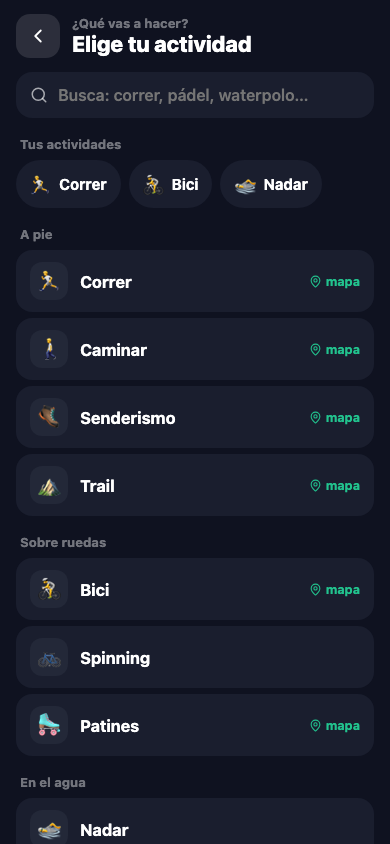
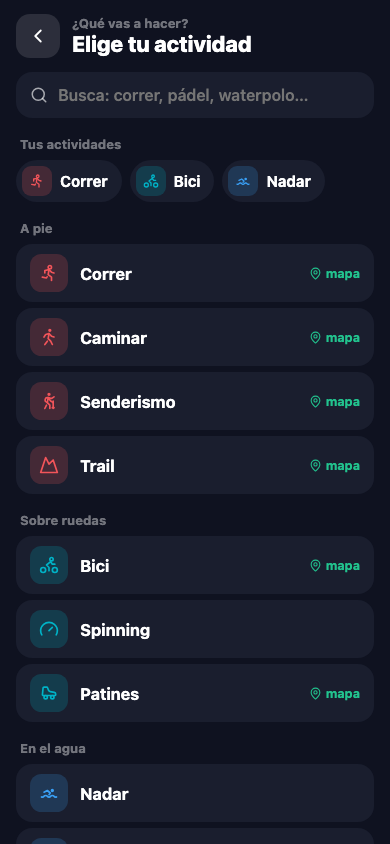
Actividades sin emojis: iconos de linea en cuadrito de color (catalogo de la app); crear la tuya con color e icono sugerido por el nombre

diff --git a/src/features/libre/ElegirActividad.jsx b/src/features/libre/ElegirActividad.jsx
@@ -1,33 +1,38 @@
 import { useMemo, useState } from 'react';
 import { createPortal } from 'react-dom';
-import { ChevronLeft, MapPin, Plus, Search } from 'lucide-react';
+import { Check, ChevronLeft, Loader2, MapPin, Plus, Search } from 'lucide-react';
 import { FONT } from '@/lib/theme';
 import {
-  EMOJIS_PARA_CREAR, GRUPOS_DE_ACTIVIDADES, MAX_NOMBRE, buscaActividades, creaActividad, hayConNombre, tusActividades,
+  COLORES_PARA_CREAR, GRUPOS_DE_ACTIVIDADES, ICONO_PROPIO, MAX_NOMBRE, buscaActividades, creaActividad, hayConNombre, tusActividades,
 } from '@/lib/actividades';
+import { buscaIconos, sugiereIcono } from '@/lib/iconosDeTipo';
+import { useCatalogoDeIconos } from '@/lib/useCatalogoDeIconos';
+import { IconoSvg } from '@/components/IconoDeTipo';
+import IconoDeActividad from './IconoDeActividad';
 
 /* ELIGE TU ACTIVIDAD (23 oct 2026, Activity Tracker; maqueta v4 aprobada: `docs/maquetas/2026-10-21-experiencia-tracker.html`, pantallas «Cambiar actividad» y «Crear la tuya»).
    Se abre desde el botón de la izquierda de «listo para empezar» (el punto ● de la barra). Oscura, como esa pantalla.
      · Arriba «Tus actividades»: lo que hizo últimamente y las que creó (un toque si repite lo de siempre).
      · Abajo todas, por grupos; las que llevan mapa dicen «mapa».
      · Buscador sin acentos. Si lo que escribe no existe: «Crear "Waterpolo"».
-     · Crear la suya: nombre, emoji y UNA pregunta, «¿Te mueves de un lugar a otro?» (si sí, lleva mapa y distancia). Queda guardada en su configuración.
+     · Crear la suya: nombre, COLOR e ÍCONO (del catálogo de la app, el de los tipos de sesión; mientras escribe el nombre se le sugiere uno) y UNA pregunta,
+       «¿Te mueves de un lugar a otro?» (si sí, lleva mapa y distancia). Queda guardada en su configuración. Sin emojis: Andrés, «no tienen personalidad».
    `filas`: sus entrenos recientes (para «Tus actividades»). `propias`: las que creó. `alElegir(actividad)`. `alCrear(actividad)`: la guarda y la elige. */
 
 const C = { fondo: '#0F1220', tarjeta: '#1A1E2E', tarjeta2: '#232838', texto: '#FFFFFF', texto2: 'rgba(255,255,255,0.62)', texto3: 'rgba(255,255,255,0.42)', azul: '#2F6BFF', verde: '#22C38E' };
 
 const rotulo = { margin: '18px 4px 8px', fontSize: 13, fontWeight: 700, color: C.texto3 };
 const fila = {
-  width: '100%', display: 'flex', alignItems: 'center', gap: 12, padding: '12px 14px', border: 'none', borderRadius: 16, background: C.tarjeta, color: C.texto,
+  width: '100%', display: 'flex', alignItems: 'center', gap: 12, padding: '10px 14px', border: 'none', borderRadius: 16, background: C.tarjeta, color: C.texto,
   fontFamily: FONT, fontSize: 16.5, fontWeight: 700, cursor: 'pointer', textAlign: 'left', touchAction: 'manipulation',
 };
-const emojiDe = { width: 38, height: 38, borderRadius: 12, background: C.tarjeta2, display: 'grid', placeItems: 'center', fontSize: 21, flexShrink: 0 };
 const redondo = { width: 44, height: 44, borderRadius: 14, border: 'none', background: 'rgba(255,255,255,0.12)', color: '#fff', display: 'grid', placeItems: 'center', cursor: 'pointer', flexShrink: 0 };
+const masDe = { width: 38, height: 38, borderRadius: 12, background: 'rgba(47,107,255,0.2)', color: C.azul, display: 'grid', placeItems: 'center', flexShrink: 0 };
 
 function Fila({ actividad, onClick }) {
   return (
     <button type="button" onClick={onClick} style={fila}>
-      <span aria-hidden="true" style={emojiDe}>{actividad.emoji}</span>
+      <IconoDeActividad actividad={actividad} oscuro />
       <span style={{ flex: 1, minWidth: 0, overflowWrap: 'anywhere' }}>{actividad.nombre}</span>
       {actividad.gps && <span style={{ display: 'inline-flex', alignItems: 'center', gap: 4, fontSize: 12.5, fontWeight: 700, color: C.verde }}><MapPin size={13} /> mapa</span>}
     </button>
@@ -35,12 +40,24 @@ function Fila({ actividad, onClick }) {
 }
 
 function Crear({ inicial, propias, alGuardar, alVolver }) {
+  const catalogo = useCatalogoDeIconos();
   const [nombre, setNombre] = useState(inicial);
-  const [emoji, setEmoji] = useState(EMOJIS_PARA_CREAR[0]);
+  const [color, setColor] = useState(COLORES_PARA_CREAR[0]);
+  const [elegido, setElegido] = useState(null); // el ícono que tocó; sin tocar ninguno, el que sugiere el nombre
+  const [busca, setBusca] = useState('');
   const [gps, setGps] = useState(false);
   const [aviso, setAviso] = useState(null);
+  const sugerido = useMemo(() => (catalogo ? sugiereIcono(catalogo, nombre) : null), [catalogo, nombre]);
+  const icono = elegido ?? sugerido ?? ICONO_PROPIO;
+  // El que va (el sugerido por el nombre o el que tocó) sale primero en la rejilla: así se ve marcado sin tener que buscarlo.
+  const iconos = useMemo(() => {
+    const todos = buscaIconos(catalogo, busca);
+    if (busca.trim()) return todos;
+    const actual = todos.find((ic) => ic.id === icono);
+    return actual ? [actual, ...todos.filter((ic) => ic !== actual)] : todos;
+  }, [catalogo, busca, icono]);
   const guardar = () => {
-    const r = creaActividad({ nombre, emoji, gps }, propias);
+    const r = creaActividad({ nombre, icono, color, gps }, propias);
     if (!r) { setAviso('Escribe cómo se llama.'); return; }
     alGuardar(r.actividad, r.yaExistia);
   };
@@ -51,23 +68,50 @@ function Crear({ inicial, propias, alGuardar, alVolver }) {
         <div><div style={{ fontSize: 13, fontWeight: 700, color: C.texto3 }}>Nueva actividad</div><div style={{ fontSize: 22, fontWeight: 800 }}>Hazla tuya</div></div>
       </div>
       <div style={{ flex: 1, overflowY: 'auto', padding: '14px 16px' }}>
-        <div aria-hidden="true" style={{ width: 96, height: 96, borderRadius: 30, background: C.tarjeta, display: 'grid', placeItems: 'center', fontSize: 52, margin: '6px auto 16px' }}>{emoji}</div>
+        <div style={{ display: 'flex', justifyContent: 'center', margin: '4px 0 16px' }}>
+          <IconoDeActividad actividad={{ icono, color, nombre }} size={92} oscuro />
+        </div>
         <input
           value={nombre} onChange={(e) => { setNombre(e.target.value); setAviso(null); }} maxLength={MAX_NOMBRE} placeholder="Nombre" aria-label="Nombre de la actividad" autoFocus={!inicial}
           style={{ width: '100%', boxSizing: 'border-box', border: 'none', borderRadius: 16, background: C.tarjeta, color: C.texto, fontFamily: FONT, fontSize: 20, fontWeight: 700, padding: '14px 16px', outline: 'none', textAlign: 'center' }}
         />
         {aviso && <div role="alert" style={{ marginTop: 8, textAlign: 'center', color: '#FFB547', fontSize: 14, fontWeight: 600 }}>{aviso}</div>}
-        <div role="group" aria-label="Emoji" style={{ display: 'grid', gridTemplateColumns: 'repeat(5, 1fr)', gap: 8, marginTop: 16 }}>
-          {EMOJIS_PARA_CREAR.map((e) => (
+
+        <div style={rotulo}>Color</div>
+        <div role="group" aria-label="Color" style={{ display: 'flex', flexWrap: 'wrap', gap: 10 }}>
+          {COLORES_PARA_CREAR.map((c) => (
             <button
-              key={e} type="button" onClick={() => setEmoji(e)} aria-pressed={e === emoji} aria-label={`Emoji ${e}`}
-              style={{ height: 52, borderRadius: 14, border: 'none', cursor: 'pointer', fontSize: 26, background: e === emoji ? C.azul : C.tarjeta, touchAction: 'manipulation' }}
-            >{e}</button>
+              key={c} type="button" onClick={() => setColor(c)} aria-pressed={c === color} aria-label={`Color ${c}`}
+              style={{ width: 38, height: 38, borderRadius: 19, border: 'none', cursor: 'pointer', background: c, display: 'grid', placeItems: 'center', boxShadow: c === color ? '0 0 0 3px #0F1220, 0 0 0 5px #fff' : 'none', touchAction: 'manipulation' }}
+            >{c === color && <Check size={16} color="#fff" strokeWidth={3.4} />}</button>
           ))}
         </div>
+
+        <div style={rotulo}>Ícono</div>
+        <label style={{ display: 'flex', alignItems: 'center', gap: 10, padding: '0 14px', borderRadius: 14, background: C.tarjeta }}>
+          <Search size={17} color={C.texto2} aria-hidden="true" />
+          <input
+            type="search" value={busca} onChange={(e) => setBusca(e.target.value)} placeholder="Busca: pelota, agua, montaña…" aria-label="Buscar ícono" autoComplete="off"
+            style={{ flex: 1, minWidth: 0, border: 'none', background: 'transparent', color: C.texto, fontFamily: FONT, fontSize: 15.5, fontWeight: 600, padding: '12px 0', outline: 'none' }}
+          />
+        </label>
+        <div role="group" aria-label="Ícono" style={{ display: 'grid', gridTemplateColumns: 'repeat(auto-fill, minmax(52px, 1fr))', gap: 8, marginTop: 10, maxHeight: 236, overflowY: 'auto' }}>
+          {!catalogo && <div style={{ gridColumn: '1 / -1', display: 'flex', alignItems: 'center', gap: 8, color: C.texto2, fontSize: 14, padding: 12 }}><Loader2 size={16} className="spin" /> Cargando íconos…</div>}
+          {catalogo && iconos.length === 0 && <div style={{ gridColumn: '1 / -1', color: C.texto2, fontSize: 14, padding: 12 }}>Ningún ícono con esa palabra.</div>}
+          {iconos.map((ic) => {
+            const puesto = ic.id === icono;
+            return (
+              <button
+                key={ic.id} type="button" onClick={() => setElegido(ic.id)} aria-pressed={puesto} aria-label={ic.nombre} title={ic.nombre}
+                style={{ height: 52, borderRadius: 14, border: 'none', cursor: 'pointer', display: 'grid', placeItems: 'center', background: puesto ? `${color}33` : C.tarjeta, color: puesto ? color : C.texto, touchAction: 'manipulation' }}
+              ><IconoSvg svg={ic.svg} size={24} /></button>
+            );
+          })}
+        </div>
+
         <button
           type="button" onClick={() => setGps((g) => !g)} aria-pressed={gps}
-          style={{ ...fila, marginTop: 16, alignItems: 'center', justifyContent: 'space-between', padding: '14px 16px' }}
+          style={{ ...fila, marginTop: 16, justifyContent: 'space-between', padding: '14px 16px' }}
         >
           <span><span style={{ display: 'block' }}>¿Te mueves de un lugar a otro?</span><span style={{ display: 'block', fontSize: 13.5, fontWeight: 500, color: C.texto2, marginTop: 2 }}>Si sí, llevará mapa y distancia.</span></span>
           <span aria-hidden="true" style={{ width: 50, height: 30, borderRadius: 15, background: gps ? C.verde : 'rgba(255,255,255,0.18)', position: 'relative', flexShrink: 0, transition: 'background .15s' }}>
@@ -118,8 +162,8 @@ export default function ElegirActividad({ filas = [], propias = [], alElegir, al
                   {tuyas.map((x) => (
                     <button
                       key={x.id} type="button" onClick={() => alElegir(x)}
-                      style={{ display: 'inline-flex', alignItems: 'center', gap: 8, padding: '10px 14px', borderRadius: 99, border: 'none', background: x.propia ? 'rgba(47,107,255,0.24)' : C.tarjeta, color: C.texto, fontFamily: FONT, fontSize: 15, fontWeight: 700, cursor: 'pointer', touchAction: 'manipulation' }}
-                    ><span aria-hidden="true" style={{ fontSize: 18 }}>{x.emoji}</span>{x.nombre}</button>
+                      style={{ display: 'inline-flex', alignItems: 'center', gap: 8, padding: '6px 14px 6px 6px', borderRadius: 99, border: 'none', background: C.tarjeta, color: C.texto, fontFamily: FONT, fontSize: 15, fontWeight: 700, cursor: 'pointer', touchAction: 'manipulation' }}
+                    ><IconoDeActividad actividad={x} size={30} oscuro />{x.nombre}</button>
                   ))}
                 </div>
                 {GRUPOS_DE_ACTIVIDADES.map((g) => (
@@ -129,16 +173,16 @@ export default function ElegirActividad({ filas = [], propias = [], alElegir, al
                   </div>
                 ))}
                 <div style={rotulo}>¿No está?</div>
-                <button type="button" onClick={() => setCreando('')} style={{ ...fila, color: C.azul }}><span aria-hidden="true" style={{ ...emojiDe, color: C.azul }}><Plus size={20} /></span> Crear mi actividad</button>
+                <button type="button" onClick={() => setCreando('')} style={{ ...fila, color: C.azul }}><span aria-hidden="true" style={masDe}><Plus size={20} /></span> Crear mi actividad</button>
               </>
             ) : (
               <>
                 <div style={rotulo}>{hallazgos.length ? 'Resultados' : 'Sin resultados'}</div>
                 <div style={{ display: 'flex', flexDirection: 'column', gap: 6 }}>{hallazgos.map((x) => <Fila key={x.id} actividad={x} onClick={() => alElegir(x)} />)}</div>
-                {!hallazgos.length && <p style={{ margin: '4px 4px 12px', color: C.texto2, fontSize: 14.5, lineHeight: 1.4 }}>No la tenemos todavía. Créala con tu emoji y queda guardada.</p>}
+                {!hallazgos.length && <p style={{ margin: '4px 4px 12px', color: C.texto2, fontSize: 14.5, lineHeight: 1.4 }}>No la tenemos todavía. Créala con tu ícono y queda guardada.</p>}
                 {ofreceCrear && (
                   <button type="button" onClick={() => setCreando(nombreNuevo)} style={{ ...fila, marginTop: 6, color: C.azul }}>
-                    <span aria-hidden="true" style={{ ...emojiDe, color: C.azul }}><Plus size={20} /></span> Crear «{nombreNuevo}»
+                    <span aria-hidden="true" style={masDe}><Plus size={20} /></span> Crear «{nombreNuevo}»
                   </button>
                 )}
               </>

diff --git a/src/lib/actividades.js b/src/lib/actividades.js
@@ -1,32 +1,40 @@
 /* LAS ACTIVIDADES QUE SE PUEDEN REGISTRAR (23 oct 2026, Activity Tracker: `docs/superpowers/specs/2026-10-22-tracker-y-activity-cards-handoff.md`).
 
    Lo que la persona elige al tocar el punto ● de la barra para registrar algo por su cuenta: una lista por grupos con buscador, y si lo suyo no está (waterpolo),
-   CREA la suya con nombre y emoji; queda guardada en su configuración. Una sola pregunta al crearla: «¿te mueves de un lugar a otro?» (lleva mapa y distancia o no).
+   CREA la suya con nombre, ícono y color; queda guardada en su configuración. Una sola pregunta al crearla: «¿te mueves de un lugar a otro?» (lleva mapa y distancia o no).
 
-   Cada actividad dice cómo se muestra (`nombre`, `emoji`), si lleva mapa (`gps`) y a qué DEPORTE de las métricas pertenece (`deporte`, uno de `lib/metricas/deportes.js`):
+   Cada actividad dice cómo se muestra (`nombre`; `icono`, un id del catálogo de íconos de la app —`lib/iconosDeTipo.datos.js`, el mismo de los tipos de sesión—, y
+   `color`), si lleva mapa (`gps`) y a qué DEPORTE de las métricas pertenece (`deporte`, uno de `lib/metricas/deportes.js`):
    el pádel se guarda como «raqueta» para que la carga y las métricas del coach sepan qué es, pero se llama «Pádel» (el `titulo` del entreno).
+
+   SIN EMOJIS (Andrés, 23 oct 2026: «no me gustan los emojis, no tienen personalidad»): íconos de línea en un cuadrito de color, como los deportes y los tipos de sesión.
 
    Es puro (sin pantalla ni red) para probarse: `scripts/prueba-actividades.mjs`. Sin `@/`: lo cargan las pruebas de Node. */
 
 import { DEPORTES } from './metricas/deportes.js';
 
-const a = (id, nombre, emoji, gps, deporte) => Object.freeze({ id, nombre, emoji, gps, deporte });
+// Un color por grupo (de la paleta de los tipos de sesión): se distingue de un vistazo qué es a pie, en el agua o de raqueta.
+const COLOR = { pie: '#F2555A', ruedas: '#00B3C7', agua: '#3AA0F5', fuerza: '#A480FF', raqueta: '#F0A81F', equipo: '#FF7A52', mente: '#C084FC', combate: '#9090A0' };
+const a = (id, nombre, icono, color, gps, deporte) => Object.freeze({ id, nombre, icono, color, gps, deporte });
 
 export const GRUPOS_DE_ACTIVIDADES = Object.freeze([
-  { grupo: 'A pie', actividades: [a('correr', 'Correr', '🏃', true, 'correr'), a('caminar', 'Caminar', '🚶', true, 'caminar'), a('senderismo', 'Senderismo', '🥾', true, 'senderismo'), a('trail', 'Trail', '⛰', true, 'correr')] },
-  { grupo: 'Sobre ruedas', actividades: [a('bici', 'Bici', '🚴', true, 'bici'), a('spinning', 'Spinning', '🚲', false, 'bici'), a('patines', 'Patines', '🛼', true, 'otro')] },
-  { grupo: 'En el agua', actividades: [a('natacion', 'Nadar', '🏊', false, 'natacion'), a('surf', 'Surf', '🏄', true, 'otro'), a('remo', 'Remo', '🚣', true, 'remo'), a('kayak', 'Kayak', '🛶', true, 'remo')] },
-  { grupo: 'Fuerza y gimnasio', actividades: [a('fuerza', 'Gimnasio', '🏋', false, 'fuerza'), a('crossfit', 'Crossfit', '🤸', false, 'funcional'), a('hyrox', 'Hyrox', '🔥', false, 'funcional'), a('hiit', 'HIIT', '⚡', false, 'hiit'), a('eliptica', 'Elíptica', '🏃♀', false, 'eliptica')] },
-  { grupo: 'Raqueta', actividades: [a('padel', 'Pádel', '🎾', false, 'raqueta'), a('tenis', 'Tenis', '🎾', false, 'raqueta'), a('pickleball', 'Pickleball', '🏓', false, 'raqueta')] },
-  { grupo: 'En equipo', actividades: [a('futbol', 'Fútbol', '⚽', false, 'futbol'), a('basquet', 'Básquet', '🏀', false, 'otro'), a('voleibol', 'Voleibol', '🏐', false, 'otro')] },
-  { grupo: 'Mente y cuerpo', actividades: [a('yoga', 'Yoga', '🧘', false, 'yoga'), a('pilates', 'Pilates', '🤸♀', false, 'yoga'), a('movilidad', 'Movilidad', '🧎', false, 'movilidad')] },
-  { grupo: 'Combate', actividades: [a('box', 'Box', '🥊', false, 'otro'), a('jiujitsu', 'Jiu-jitsu', '🥋', false, 'otro')] },
+  { grupo: 'A pie', actividades: [a('correr', 'Correr', 'correr', COLOR.pie, true, 'correr'), a('caminar', 'Caminar', 'caminar', COLOR.pie, true, 'caminar'), a('senderismo', 'Senderismo', 'senderismo', COLOR.pie, true, 'senderismo'), a('trail', 'Trail', 'montana', COLOR.pie, true, 'correr')] },
+  { grupo: 'Sobre ruedas', actividades: [a('bici', 'Bici', 'bici', COLOR.ruedas, true, 'bici'), a('spinning', 'Spinning', 'velocimetro', COLOR.ruedas, false, 'bici'), a('patines', 'Patines', 'patines', COLOR.ruedas, true, 'otro')] },
+  { grupo: 'En el agua', actividades: [a('natacion', 'Nadar', 'nadar', COLOR.agua, false, 'natacion'), a('surf', 'Surf', 'olas', COLOR.agua, true, 'otro'), a('remo', 'Remo', 'kayak', COLOR.agua, true, 'remo'), a('kayak', 'Kayak', 'barco', COLOR.agua, true, 'remo')] },
+  { grupo: 'Fuerza y gimnasio', actividades: [a('fuerza', 'Gimnasio', 'pesa', COLOR.fuerza, false, 'fuerza'), a('crossfit', 'Crossfit', 'pesa-rusa', COLOR.fuerza, false, 'funcional'), a('hyrox', 'Hyrox', 'llama', COLOR.fuerza, false, 'funcional'), a('hiit', 'HIIT', 'rayo', COLOR.fuerza, false, 'hiit'), a('eliptica', 'Elíptica', 'caminadora', COLOR.fuerza, false, 'eliptica')] },
+  { grupo: 'Raqueta', actividades: [a('padel', 'Pádel', 'tenis', COLOR.raqueta, false, 'raqueta'), a('tenis', 'Tenis', 'tenis', COLOR.raqueta, false, 'raqueta'), a('pickleball', 'Pickleball', 'pingpong', COLOR.raqueta, false, 'raqueta')] },
+  { grupo: 'En equipo', actividades: [a('futbol', 'Fútbol', 'futbol', COLOR.equipo, false, 'futbol'), a('basquet', 'Básquet', 'basquet', COLOR.equipo, false, 'otro'), a('voleibol', 'Voleibol', 'voleibol', COLOR.equipo, false, 'otro')] },
+  { grupo: 'Mente y cuerpo', actividades: [a('yoga', 'Yoga', 'yoga', COLOR.mente, false, 'yoga'), a('pilates', 'Pilates', 'estirar', COLOR.mente, false, 'yoga'), a('movilidad', 'Movilidad', 'estirar-2', COLOR.mente, false, 'movilidad')] },
+  { grupo: 'Combate', actividades: [a('box', 'Box', 'boxeo', COLOR.combate, false, 'otro'), a('jiujitsu', 'Jiu-jitsu', 'karate', COLOR.combate, false, 'otro')] },
 ]);
 
 export const CATALOGO = Object.freeze(GRUPOS_DE_ACTIVIDADES.flatMap((g) => g.actividades));
 
-/** Los emojis que se ofrecen al crear una actividad propia (el primero es el que sale de entrada). */
-export const EMOJIS_PARA_CREAR = Object.freeze(['🤽', '🏊', '⚽', '🏐', '🤾', '🏇', '⛷', '🏂', '🧗', '🤺', '🏌', '🛹', '🪂', '🏸', '🥏', '🏒', '💃', '🧜', '🚣', '🏓']);
+/** Los colores que se ofrecen al crear una actividad propia: los de los tipos de sesión (el primero sale de entrada). */
+export const COLORES_PARA_CREAR = Object.freeze(['#5DA0FF', '#A480FF', '#FFA047', '#3DD9A0', '#F2555A', '#00B3C7', '#EC7FB0', '#22C08A', '#F0A81F', '#9090A0']);
+/** El ícono de una propia que todavía no tiene uno (el neutro del catálogo). */
+export const ICONO_PROPIO = 'etiqueta';
+const ES_HEX = /^#[0-9a-f]{6}$/i;
 
 export const MAX_NOMBRE = 18;
 export const MAX_PROPIAS = 30;
@@ -39,9 +47,10 @@ export function limpiaPropia(p) {
   if (!p || typeof p !== 'object') return null;
   const nombre = String(p.nombre ?? '').replace(/\s+/g, ' ').trim().slice(0, MAX_NOMBRE);
   if (!nombre || typeof p.id !== 'string' || !p.id.startsWith('p-')) return null;
-  const emoji = typeof p.emoji === 'string' && p.emoji.trim() ? p.emoji.trim().slice(0, 8) : EMOJIS_PARA_CREAR[0];
+  const icono = typeof p.icono === 'string' && /^[a-z0-9-]{1,30}$/.test(p.icono) ? p.icono : ICONO_PROPIO;
+  const color = ES_HEX.test(String(p.color ?? '')) ? p.color : COLORES_PARA_CREAR[0];
   const gps = !!p.gps;
-  return Object.freeze({ id: p.id, nombre, emoji, gps, deporte: 'otro', propia: true });
+  return Object.freeze({ id: p.id, nombre, icono, color, gps, deporte: 'otro', propia: true });
 }
 
 /** Las propias guardadas, limpias y sin repetidas. */
@@ -51,12 +60,12 @@ export const propiasDe = (lista) => (Array.isArray(lista) ? lista : []).map(limp
  * La actividad nueva que crea la persona, lista para guardarse, o `null` si el nombre está vacío. Si ya existe una con ese nombre (del catálogo o suya), se devuelve
  * ESA en lugar de crear otra igual (`yaExistia: true`).
  */
-export function creaActividad({ nombre, emoji, gps }, propias = [], ahora = Date.now()) {
+export function creaActividad({ nombre, icono, color, gps }, propias = [], ahora = Date.now()) {
   const n = conMayuscula(String(nombre ?? '').replace(/\s+/g, ' ').trim().slice(0, MAX_NOMBRE));
   if (!n) return null;
   const igual = [...propiasDe(propias), ...CATALOGO].find((x) => sinAcentos(x.nombre) === sinAcentos(n));
   if (igual) return { actividad: igual, yaExistia: true };
-  const actividad = limpiaPropia({ id: `p-${ahora.toString(36)}`, nombre: n, emoji, gps });
+  const actividad = limpiaPropia({ id: `p-${ahora.toString(36)}`, nombre: n, icono, color, gps });
   return { actividad, yaExistia: false };
 }
 
@@ -66,7 +75,7 @@ export const actividadPorId = (id, propias = []) => propiasDe(propias).find((x) 
 /** La del catálogo para un deporte de las métricas (lo que se guarda de un entreno viejo): la primera de ese deporte, o una genérica con su nombre. */
 export function actividadDeDeporte(deporte) {
   const d = DEPORTES[deporte] ? deporte : 'otro';
-  return CATALOGO.find((x) => x.deporte === d && x.id === d) ?? CATALOGO.find((x) => x.deporte === d) ?? a('otro', DEPORTES.otro.nombre, '✨', false, 'otro');
+  return CATALOGO.find((x) => x.deporte === d && x.id === d) ?? CATALOGO.find((x) => x.deporte === d) ?? a('otro', DEPORTES.otro.nombre, 'destellos', '#7A8191', false, 'otro');
 }
 
 /** La actividad de un entreno ya guardado (`{ deporte, titulo }`): por su nombre si es del catálogo o propia; si no, por su deporte. */

diff --git a/src/features/libre/PantallaDeCarrera.jsx b/src/features/libre/PantallaDeCarrera.jsx
@@ -9,6 +9,8 @@ import { enVivo, textoDeRitmo } from '@/lib/ubicacion';
 import { useConfirmacion } from '@/components/Confirmacion';
 import { useAviso } from '@/components/AvisoPasajero';
 import MapaDeCarrera from './MapaDeCarrera';
+import IconoDeActividad from './IconoDeActividad';
+import { actividadDeDeporte } from '@/lib/actividades';
 import { useSenalGps } from './useEntrenoLibre';
 
 /* LA CARRERA CON GPS A PANTALLA COMPLETA (reestructura visual, 16 oct 2026), como «Workout · Carrera» de las capturas de Andrés:
@@ -40,7 +42,7 @@ const horaDeAhora = () => {
   return { hora, sufijo: resto.join(' ') }; // «10:49» en grande y «p.m.» chico (junto no cabe en un teléfono)
 };
 
-/* `actividad`: la que eligió (`lib/actividades.js`; desde el 23 oct 2026, Activity Tracker): su nombre y su emoji se ven aquí, y si NO lleva mapa (gimnasio, pádel) «listo
+/* `actividad`: la que eligió (`lib/actividades.js`; desde el 23 oct 2026, Activity Tracker): su nombre y su ícono se ven aquí, y si NO lleva mapa (gimnasio, pádel) «listo
    para empezar» enseña la hora en grande en vez del mapa y arranca el cronómetro sin GPS. Con mapa, «Iniciar» espera a que el GPS esté listo (en Aura los primeros
    segundos daban ritmos absurdos); «Sin GPS» sigue ahí por si la señal no llega. */
 export default function PantallaDeCarrera({ userId, crono, pendiente = null, actividad = null, ultimo = null, alEmpezar, alMinimizar, alCambiarDeporte, alGuardado }) {
@@ -148,9 +150,9 @@ export default function PantallaDeCarrera({ userId, crono, pendiente = null, act
             {ultimo && <div style={{ fontSize: 13.5, fontWeight: 500, color: C.texto2, textAlign: 'right' }}>Último: {ultimo}</div>}
           </div>
           <div style={{ display: 'grid', gridTemplateColumns: '1fr auto 1fr', alignItems: 'center', gap: 10, marginTop: 16 }}>
-            {/* Cambiar de actividad: el emoji de la que va (detalle de la maqueta v4, estilo Aura). */}
+            {/* Cambiar de actividad: el ícono de la que va (detalle de la maqueta v4, estilo Aura). */}
             <button type="button" onClick={alCambiarDeporte} aria-label={`Cambiar de actividad (ahora: ${nombre})`} style={lado}>
-              <span aria-hidden="true" style={{ ...redondo, width: 52, height: 52, borderRadius: 26, fontSize: 24 }}>{act?.emoji ?? '🏃'}</span> Cambiar
+              <IconoDeActividad actividad={act ?? actividadDeDeporte(deporte)} size={52} oscuro /> Cambiar
             </button>
             <button
               type="button" onClick={() => alEmpezar({ gps: conMapa && !sinGps })} disabled={esperandoGps} aria-label="Iniciar"

diff --git a/src/features/libre/PantallaDelCronometro.jsx b/src/features/libre/PantallaDelCronometro.jsx
@@ -11,6 +11,7 @@ import { MosaicoDeDeporte } from '@/features/metricas/Piezas';
 import { Fila, Grupo, Pastilla, Segmentado } from '@/components/ui';
 import { useSenalGps } from './useEntrenoLibre';
 import { botonBlancoGrande, botonGrande } from './estilosLibre';
+import IconoDeActividad from './IconoDeActividad';
 
 /* LA PANTALLA DEL CRONÓMETRO (entreno libre): el tiempo grande, «Pausar» y «Terminar». Al terminar pregunta la distancia (se puede dejar vacía) y guarda. Cerrar la hoja NO termina el
    entreno: el cronómetro sigue (vive en `useCronometroLibre`) y Home lo muestra como «Entreno en curso». Ver `lib/entrenoLibre.js`.
@@ -25,7 +26,7 @@ export default function PantallaDelCronometro({ userId, crono, pendiente = null,
   const [error, setError] = useState(null);
   const [vista, setVista] = useState('datos');
   const deporte = pendiente ?? cronometro?.deporte ?? 'correr';
-  // La actividad que eligió (`lib/actividades.js`): su nombre y emoji. Una propia sin mapa no pide distancia.
+  // La actividad que eligió (`lib/actividades.js`): su nombre e ícono. Una propia sin mapa no pide distancia.
   const actividad = cronometro?.actividad ?? null;
   const nombre = actividad?.nombre ?? nombreDelDeporte(deporte);
   const unidad = actividad && actividad.id !== deporte && !actividad.gps ? null : unidadDeDistancia(deporte);
@@ -98,9 +99,7 @@ export default function PantallaDelCronometro({ userId, crono, pendiente = null,
   return (
     <HojaFlotante titulo={nombre} onCerrar={alMinimizar}>
       <div style={{ display: 'flex', flexDirection: 'column', alignItems: 'center', gap: 22, padding: '18px 0 8px', fontFamily: FONT }}>
-        {!conGps && (actividad?.emoji
-          ? <span aria-hidden="true" style={{ width: 64, height: 64, borderRadius: 20, background: UI.relleno, display: 'grid', placeItems: 'center', fontSize: 34 }}>{actividad.emoji}</span>
-          : <MosaicoDeDeporte deporte={deporte} size={64} />)}
+        {!conGps && (actividad?.icono ? <IconoDeActividad actividad={actividad} size={64} /> : <MosaicoDeDeporte deporte={deporte} size={64} />)}
 
         {(fase === 'corre' || fase === 'guardando') && (
           <>

diff --git a/src/features/libre/useEntrenoLibre.js b/src/features/libre/useEntrenoLibre.js
@@ -86,10 +86,10 @@ export function useCronometroLibre(userId) {
     cronometro,
     segundos: segundosDe(cronometro, ahora),
     muestras,
-    // `actividad`: la que eligió (`lib/actividades.js`): su nombre y emoji se ven mientras corre y se guardan como título del entreno.
+    // `actividad`: la que eligió (`lib/actividades.js`): su nombre e ícono se ven mientras corre y se guardan como título del entreno.
     inicia: (deporte, { gps = false, actividad = null } = {}) => {
       cambiaRuta([]);
-      cambia({ ...cronometroNuevo(deporte), ...(gps ? { gps: true } : {}), ...(actividad ? { actividad: { id: actividad.id, nombre: actividad.nombre, emoji: actividad.emoji, gps: !!actividad.gps } } : {}) });
+      cambia({ ...cronometroNuevo(deporte), ...(gps ? { gps: true } : {}), ...(actividad ? { actividad: { id: actividad.id, nombre: actividad.nombre, icono: actividad.icono, color: actividad.color, gps: !!actividad.gps } } : {}) });
     },
     pausa: () => cambia(pausar(cronometro)),
     reanuda: () => cambia(reanudar(cronometro)),

diff --git a/src/features/libre/IconoDeActividad.jsx b/src/features/libre/IconoDeActividad.jsx
@@ -1,0 +1,12 @@
+import IconoDeTipo from '@/components/IconoDeTipo';
+
+/* El cuadrito de color con el ícono de una actividad (`lib/actividades.js`): el mismo lenguaje que los deportes (`MosaicoDeDeporte`) y los tipos de sesión, con un ícono de
+   línea del catálogo de la app. Sin emojis (Andrés, 23 oct 2026: «no tienen personalidad»). `oscuro`: va sobre las pantallas oscuras (el velo del color, más fuerte). */
+export default function IconoDeActividad({ actividad, size = 38, oscuro = false }) {
+  const color = actividad?.color ?? '#7A8191';
+  return (
+    <span aria-hidden="true" style={{ width: size, height: size, borderRadius: size * 0.3, flexShrink: 0, display: 'grid', placeItems: 'center', background: `${color}${oscuro ? '33' : '1F'}`, color }}>
+      <IconoDeTipo id={actividad?.icono ?? null} nombre={actividad?.nombre ?? ''} size={Math.round(size * 0.52)} />
+    </span>
+  );
+}
